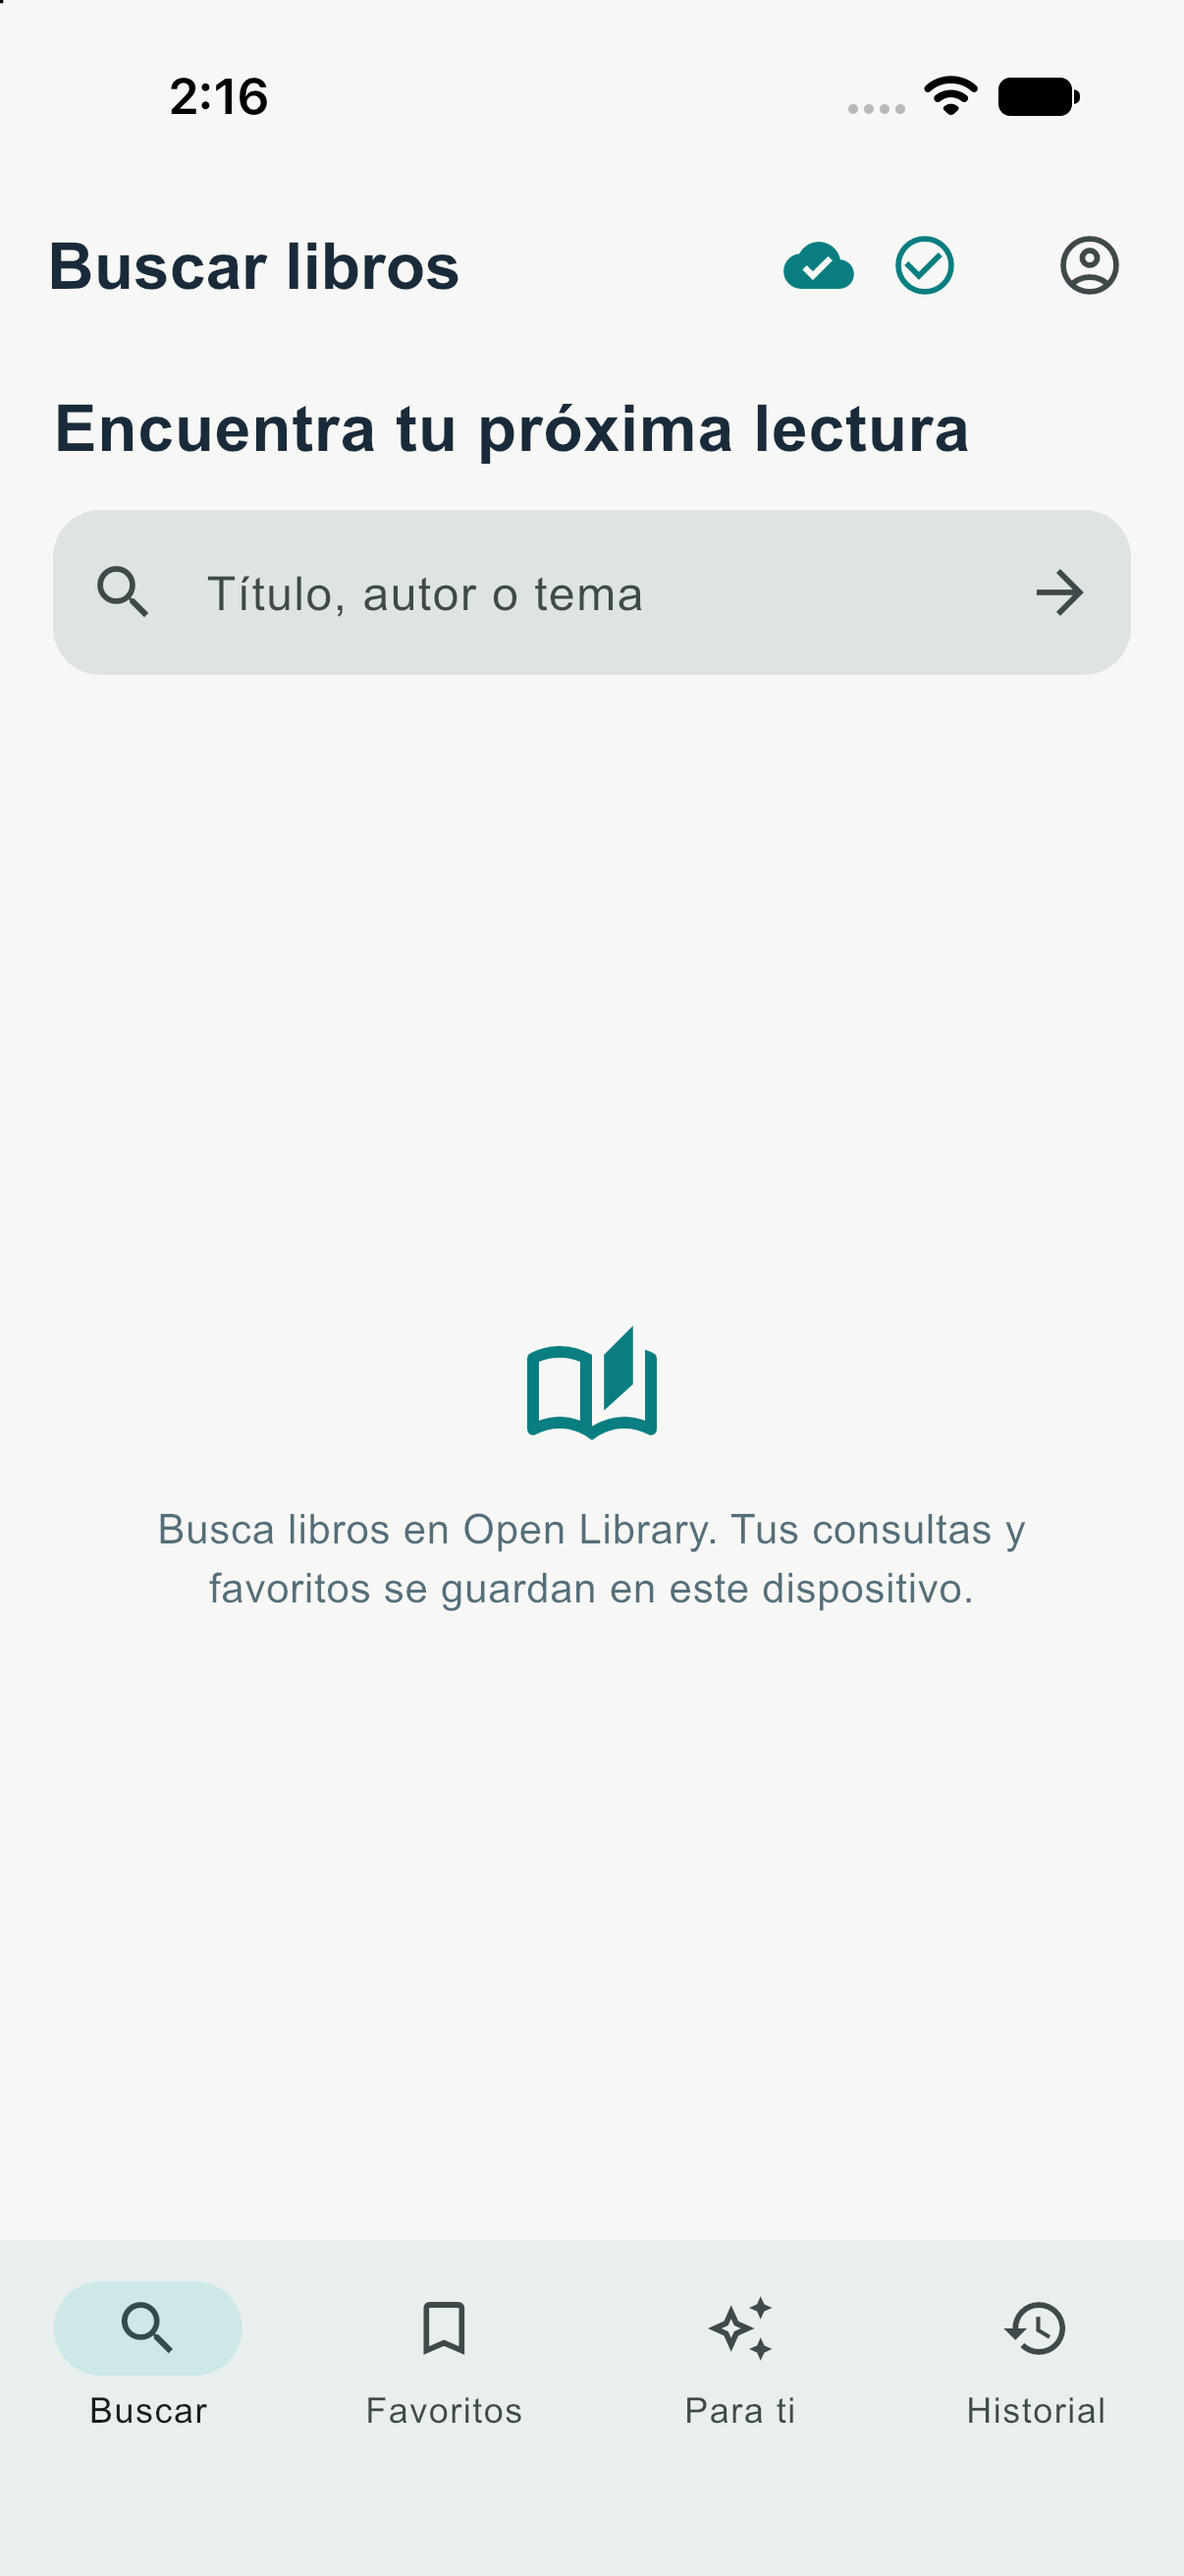
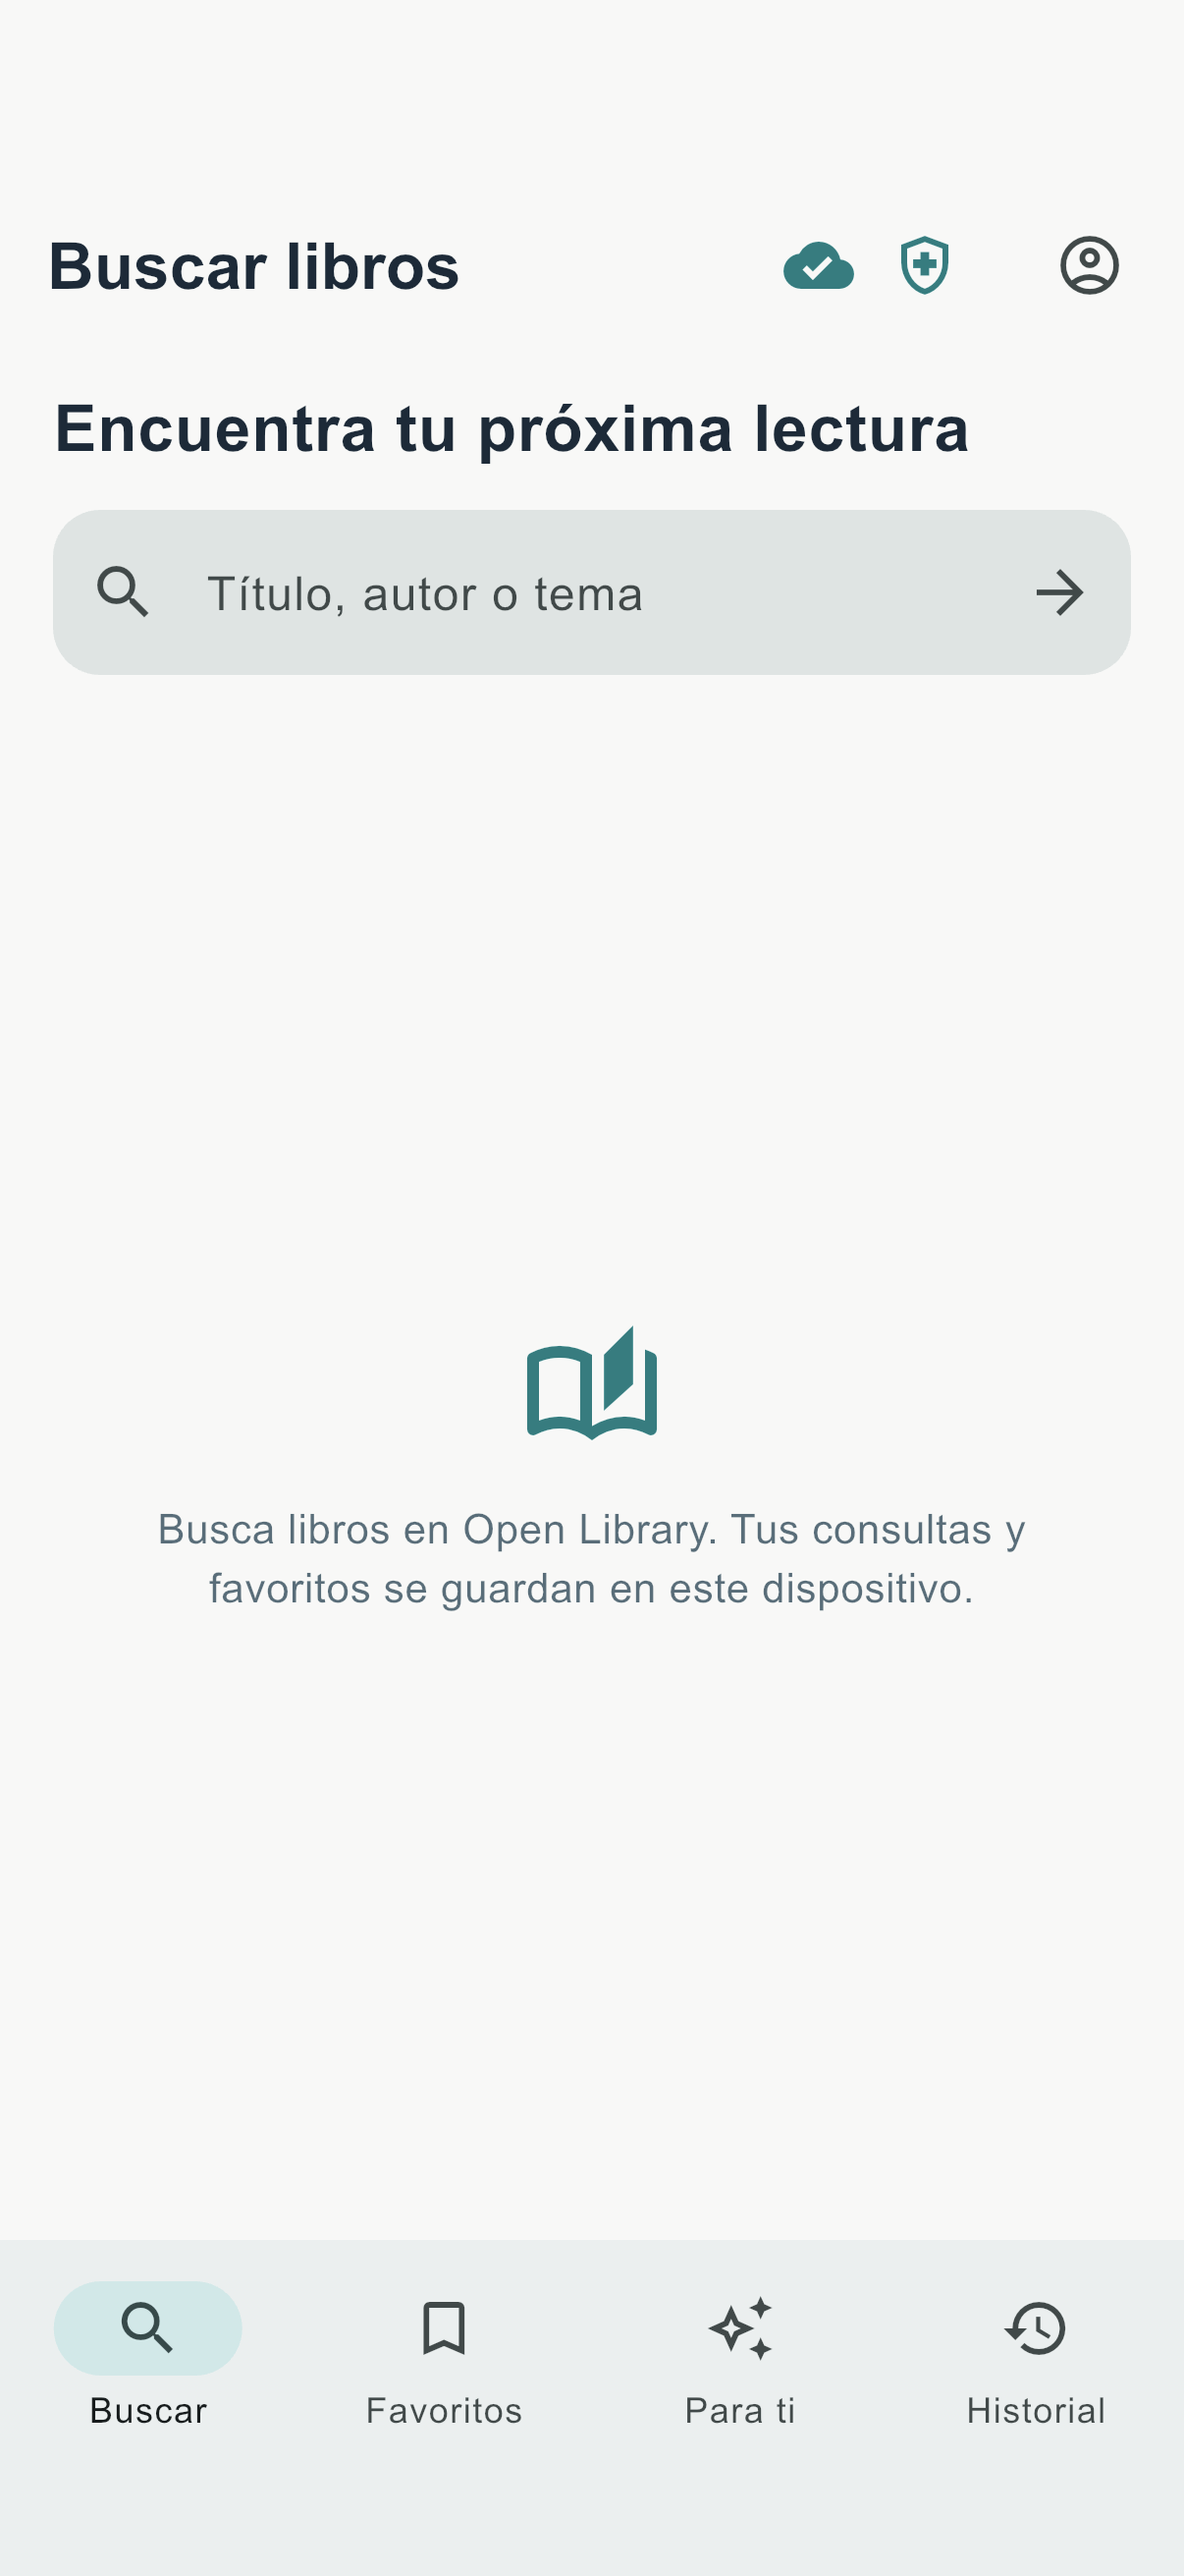
Add complete iOS screenshot evidence

diff --git a/README.md b/README.md
@@ -87,7 +87,7 @@ Cada libro candidato recibe una puntuación por sus temas compartidos con libros
 
 ### Conclusión del MVP
 
-La búsqueda, caché offline, sesión por correo, sincronización, colección CRUD y autorización de administrador se verificaron en Android con backend local. En iOS se compiló y abrió la pantalla inicial en iPhone 17 Simulator (iOS 27.2). OAuth real aún requiere los IDs del proyecto; las demás pantallas y flujos iOS necesitan una matriz de comprobación propia.
+La búsqueda, caché offline, sesión por correo, sincronización, colección CRUD y autorización de administrador se verificaron en Android con backend local. En iOS se compiló y comprobó la búsqueda, el detalle de libro, favoritos y autocomprobación en iPhone 17 Simulator (iOS 27.2). OAuth real aún requiere los IDs del proyecto; el resto de flujos iOS necesita una matriz de comprobación propia.
 
 ### Bibliografía (APA)
 
@@ -152,7 +152,7 @@ La autocomprobación local se ejecuta al arrancar cada instalación/ejecución y
 | Admin desde cuenta normal | Pantalla recibe HTTP 403 del servidor y muestra acceso denegado |
 | Docker Compose | Imagen construida, contenedor healthy y `/health` devuelve `status=ok`, `database=ok`; CRUD y elevación admin verificados |
 | Google OAuth real | Aún requiere IDs de OAuth del equipo; el botón queda deshabilitado sin ellos |
-| iOS Simulator | Build Debug y lanzamiento correctos en iPhone 17, iOS 27.2; pantalla inicial visible |
+| iOS Simulator | Build Debug correcto; búsqueda (30 resultados), detalle, favoritos y autocomprobación visibles en iPhone 17, iOS 27.2 |
 
 Los escenarios se ejecutaron en AVD **Pixel_4a, API 37**. Los resultados reportados abajo son los observados en este equipo; todavía no hay una matriz iOS comparable.
 
@@ -184,12 +184,16 @@ En esta Mac `xcode-select -p` aún apunta a Command Line Tools. El build se real
 
 ### Evidencias iOS
 
-La captura corresponde a `edu.ipn.escom.practica5Multiplataforma` ejecutándose en el simulador iPhone 17 con iOS 27.2. OAuth no se probó porque faltan los client IDs reales.
+Las capturas corresponden a `edu.ipn.escom.practica5Multiplataforma` ejecutándose en el simulador iPhone 17 con iOS 27.2. OAuth no se probó porque faltan los client IDs reales.
 
 | Escenario | Captura |
 | --- | --- |
-| Pantalla inicial de búsqueda | ![App de libros abierta en iPhone 17 Simulator](evidence/ios/ios-home.png) |
+| Inicio | ![Búsqueda de libros en iPhone 17 Simulator](evidence/ios/ios-home.png) |
+| Resultados Open Library | ![30 resultados de la búsqueda Hobbit](evidence/ios/ios-search-results.png) |
+| Detalle del libro | ![Detalle de The Hobbit](evidence/ios/ios-book-detail.png) |
+| Favoritos | ![The Hobbit guardado en favoritos](evidence/ios/ios-favorites.png) |
+| Autocomprobación | ![SQLite, almacenamiento seguro, conectividad, Open Library y backend correctos; OAuth pendiente](evidence/ios/ios-diagnostics.png) |
 
 ## English
 
-Flutter app for Android and iOS with Open Library search, local SQLite, per-account favorites and history, an offline queue, a Flask REST API and backend-enforced admin access. Clone and start the local API with `docker compose up -d --build`, then run `flutter pub get` and `flutter run`. Google OAuth is implemented but requires the team's Google Cloud client IDs and platform setup described above. Local data remains usable when the server or Internet is unavailable. The Android flows were verified on Pixel 4a API 37. The iOS debug build launched on iPhone 17 Simulator (iOS 27.2), with its home screen captured; the remaining iOS flows and real Google OAuth still need dedicated validation and project credentials.
+Flutter app for Android and iOS with Open Library search, local SQLite, per-account favorites and history, an offline queue, a Flask REST API and backend-enforced admin access. Clone and start the local API with `docker compose up -d --build`, then run `flutter pub get` and `flutter run`. Google OAuth is implemented but requires the team's Google Cloud client IDs and platform setup described above. Local data remains usable when the server or Internet is unavailable. The Android flows were verified on Pixel 4a API 37. The iOS debug build and search, book detail, favorites and local diagnostics were captured on iPhone 17 Simulator (iOS 27.2); remaining iOS flows and real Google OAuth still need dedicated validation and project credentials.
